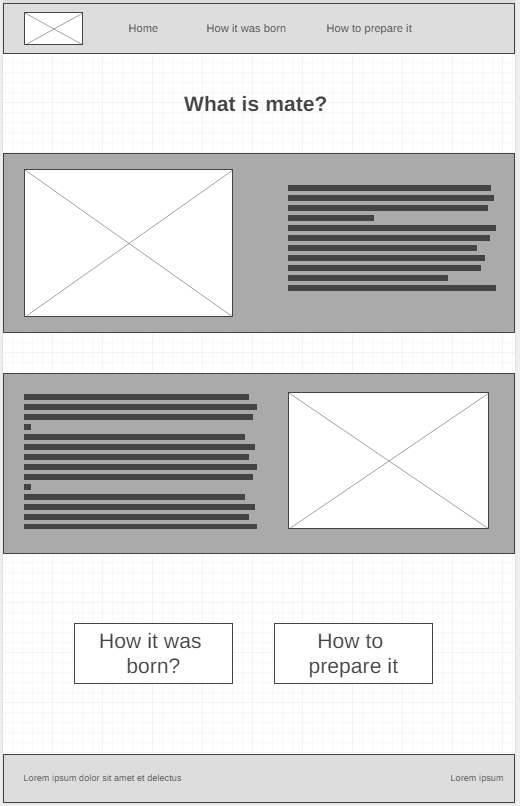
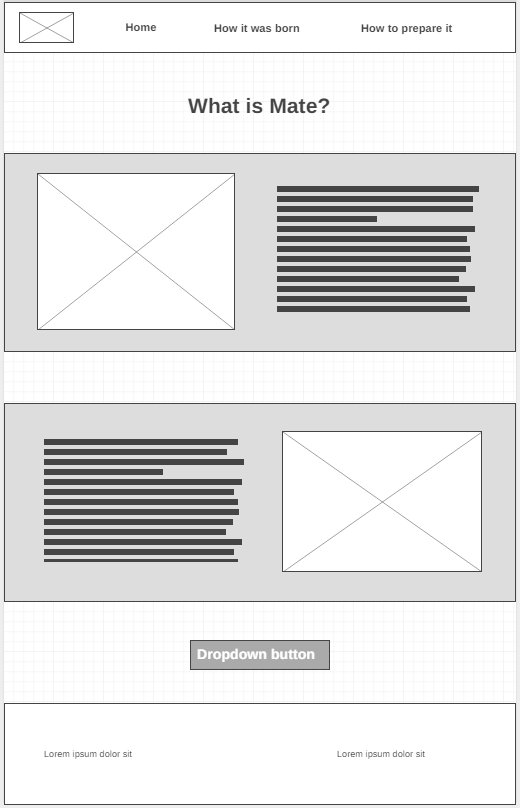
page 2 started and other changes made

diff --git a/personal-website/index.html b/personal-website/index.html
@@ -3,7 +3,7 @@
 <head>
     <meta charset="UTF-8">
     <meta name="viewport" content="width=device-width, initial-scale=1.0">
-    <title>Document</title>
+    <title>Why Mate</title>
     <link rel="stylesheet" href="styles/style.css">
 </head>
 <body>
@@ -22,7 +22,7 @@
             <h1>What is Mate?</h1>
             <div id="first-background"></div>
             <img class="mate" src="images/mate-uruguayo.jpeg" alt="mate img">
-            <section class="msg-1">
+            <div class="msg-1">
                 <p>
                     Is a traditional South American herbal drink. It is also known as chimarrão or cimarrón, 
                     it is consumed principally in Argentina, Uruguay, some parts in Chile, south Brazil and Paraguay. 
@@ -32,10 +32,10 @@
                     pronounced with two syllables, like café (both maté and café are stressed on the first syllable in the UK), 
                     rather than like the one-syllable English word "mate".
                 </p>
-            </section>
+            </div>
             <div id="second-background"></div>
             <img class="yerba" src="images/rsz-yerba-mate.jpg" alt="yerba img">
-            <section class="msg-2">
+            <div class="msg-2">
                 <p>
                     An acute accent is not used in the Spanish spelling, because the first syllable is stressed. 
                     The Yerba Mate Association of the Americas points out that, in Spanish, "maté" with the stress on 
@@ -46,7 +46,7 @@
                     The word was then used by the people who colonized the region of the Río de la Plata to describe 
                     the natives' rough and sour drink, drunk with no other ingredient to sweeten the taste.
                 </p>
-            </section>
+            </div>
             <div class="dropdown">
                 <button class="dropbtn">Content</button>
                 <div class="dropdown-content">

diff --git a/personal-website/how-it-was-born.html b/personal-website/how-it-was-born.html
@@ -3,7 +3,8 @@
 <head>
     <meta charset="UTF-8">
     <meta name="viewport" content="width=device-width, initial-scale=1.0">
-    <title>Document</title>
+    <title>Why Mate</title>
+    <link rel="stylesheet" href="styles/style.css">
 </head>
 <body>
     <div id="content">
@@ -18,11 +19,11 @@
             </nav>
         </header>
         <main class="page-2-grid">
-            <img id="yerba-plant" src="images/rsz_yerba-planta.jpg" alt="yerba plant img">
-            <h1>How it was born</h1>
+            <img id="yerba-plant" src="images/yerba-planta.jpg" alt="yerba plant img">
+            <h1 class = "page2-h1">How it was born</h1>
             <div id="third-background"></div>
             <img class="indian-mate" src="images/guarani-tomando-mate.jpg" alt="guarani indian drinking mate">
-            <section class="msg">
+            <div class="msg-3">
                 <p>
                     Mate has a strong cultural significance for both national identity and society. Yerba Mate is the 
                     national drink of Paraguay, where it is also consumed with either hot or ice cold water 
@@ -44,7 +45,7 @@
                     settlers and indigenous Guaraní, who consumed it before the Spanish arrival. Yerba Mate consumption 
                     spread in the 17th century to the Río de la Plata and from there to Peru and Chile.
                 </p>
-            </section>
+            </div>
             <div class="dropdown">
                 <button class="dropbtn">Content</button>
                 <div class="dropdown-content">

diff --git a/personal-website/styles/style.css b/personal-website/styles/style.css
@@ -82,8 +82,11 @@ h1 {
 }
 
 .msg-1 {
+    color: #DDCB7F;
+    font-family: 'Roboto', sans-serif;
     text-align: left;
-    font-size: 35px;
+    font-size: 25px;
+    padding: 15px;
     grid-column: 8/13;
     grid-row: 3/4;
 }
@@ -103,17 +106,13 @@ h1 {
 }
 
 .msg-2 {
-    text-align: left;
-    font-size: 28px;
-    grid-column: 2/7;
-    grid-row: 7/8;
-}
-
-p {
     color: #DDCB7F;
     font-family: 'Roboto', sans-serif;
-    font-size: .8em;
-    padding-bottom: 15px;
+    text-align: left;
+    font-size: 25px;
+    padding: 15px;
+    grid-column: 2/7;
+    grid-row: 7/8;
 }
 
 /* Dropdown Button */
@@ -193,4 +192,50 @@ footer a {
 footer a:hover {
     color: white;
     text-decoration: underline;
+}
+
+/* ---Page two--- */
+
+    /* Main Content */
+
+.page-two-grid {
+    display: grid;
+    grid-template-columns: repeat(13, 1fr);
+    gap: 50px;
+}
+
+#yerba-plant {
+    grid-column: 1/14;
+    grid-row: 1/2;
+    width: 100%;
+}
+
+.page2-h1 {
+    grid-column: 1/14;
+    grid-row: 2/3;
+    text-align: center;
+}
+
+#third-background {
+    height: 725px;
+    background-color: #814A2C;
+    grid-column: 1/14;
+    grid-row: 3/7;
+}
+
+.indian-mate {
+    width: 500px;
+    box-shadow: 5px 5px 10px #6f7364;
+    grid-column: 7/13;
+    grid-row: 4/5;
+}
+
+.msg-3 {
+    color: black;
+    font-family: 'Roboto', sans-serif;
+    text-align: left;
+    font-size: 25px;
+    padding: 15px;
+    grid-column: 2/7;
+    grid-row: 4/6;
 }
